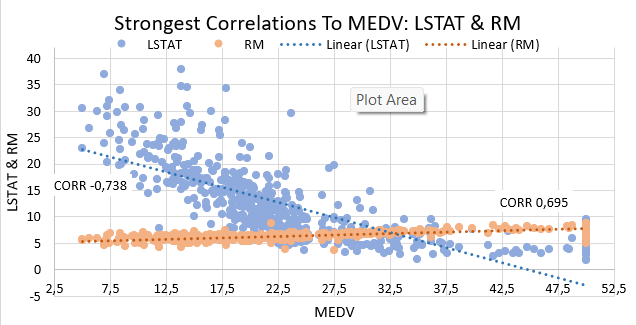
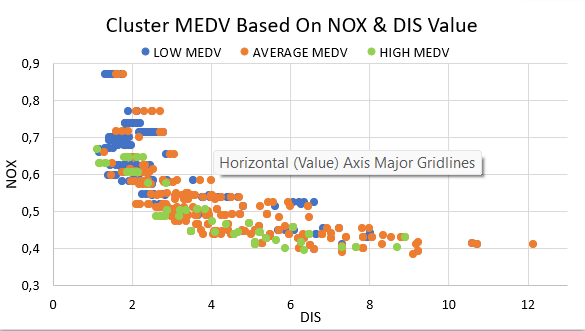
fix

diff --git a/Medium-Hard/Online Shoppers Intention/README.MD b/Medium-Hard/Online Shoppers Intention/README.MD
@@ -19,10 +19,10 @@ Dataset yang berisi kumpulan data mengenai pola pembelian dan perilaku konsumen 
   - OperatingSystems (Sistem Operasi Komputer)
   - Browser (Web Browser yang dipakai)
   - Region (Daerah pengunjung)
-  - TrafficType : Sumber lalu lintas yang membawa pengujung ke website
-- VisitorType (Jenis Pengujung) : Returning visitor atau New visitor
+  - TrafficType : Sumber lalu lintas yang membawa pengunjung ke website
+- VisitorType (Jenis Pengunjung) : Returning visitor atau New visitor
 - Weekend (Apakah diakses saat akhir pekan) : True atau False
-- Revenue (Apakah pengujung akhirnya membeli) : True atau False
+- Revenue (Apakah pengunjung akhirnya membeli) : True atau False
 
 ### Pertanyaan
 
@@ -37,7 +37,7 @@ Dataset yang berisi kumpulan data mengenai pola pembelian dan perilaku konsumen 
 ![Dashboard Menjawab Dari 5 Pertanyaan](Dashboard.png)
 
 1.  - Terhadap Bulan: ![Jawab Pertanyaan 1](image.png)
-    - Terhadap Jenis Pengujung: ![Jawab Pertanyaan 1](image-1.png)
+    - Terhadap Jenis Pengunjung: ![Jawab Pertanyaan 1](image-1.png)
 2.  - Halaman 0-49 ![Halaman 0-50](image-2.png)
     - Halaman 50-99 ![Halaman 50-99](image-3.png)
     - Halaman 100-149 ![Halaman 100-149](image-4.png)
@@ -45,8 +45,8 @@ Dataset yang berisi kumpulan data mengenai pola pembelian dan perilaku konsumen 
     - Halaman 200-249 ![Halaman 200-249](image-6.png)
     - Halaman 250-299 ![Halaman 250-299](image-7.png)
     - Halaman >=300 ![Halaman >=300](image-8.png)
-3.  - Halaman administratif![Halaman Administratif](image-9.png)
-    - Halaman informasi![Halaman informasi](image-10.png)
-    - Halaman produk![Halaman produk](image-11.png)
+3.  - Halaman administratif ![Halaman Administratif](image-9.png)
+    - Halaman informasi ![Halaman informasi](image-10.png)
+    - Halaman produk ![Halaman produk](image-11.png)
 4.  ![Jawab Pertanyaan 4](image-12.png)
 5.  ![Jawab Pertanyaan 5](image-13.png)
